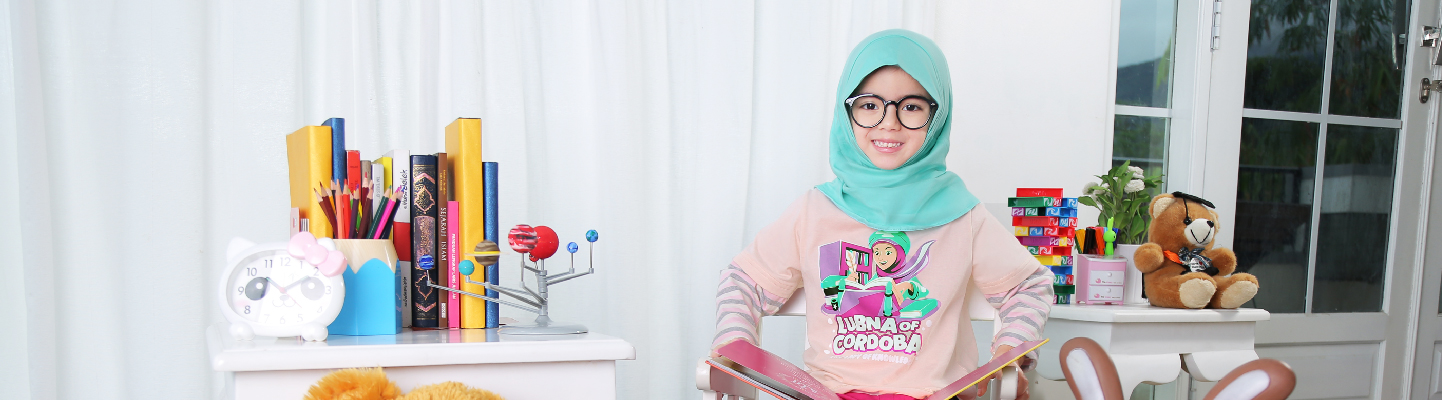
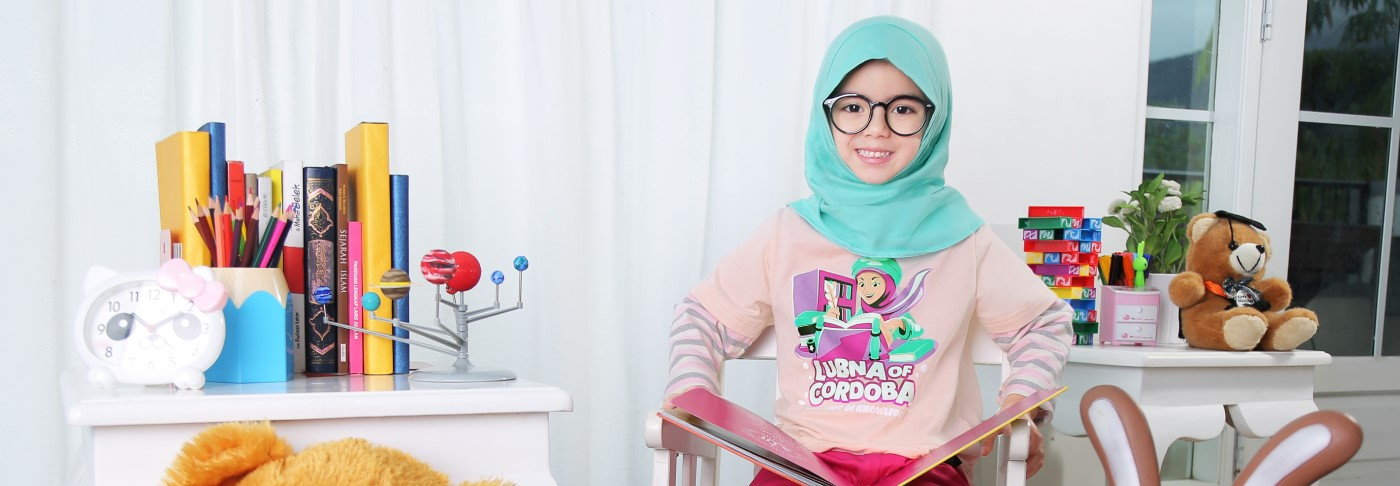
fix photo

diff --git a/css/style.css b/css/style.css
@@ -836,7 +836,7 @@ img.icon-lubna {
 
 /* Jabir Ibnu Hayyan */
 .jabir-row-page {
-  background-image: url('../image/Banner Jabir page.jpg');
+  background-image: url('../image/Banner Jabir-min.jpg');
   background-repeat: no-repeat;
   height: 570px;
   width: 100%;
